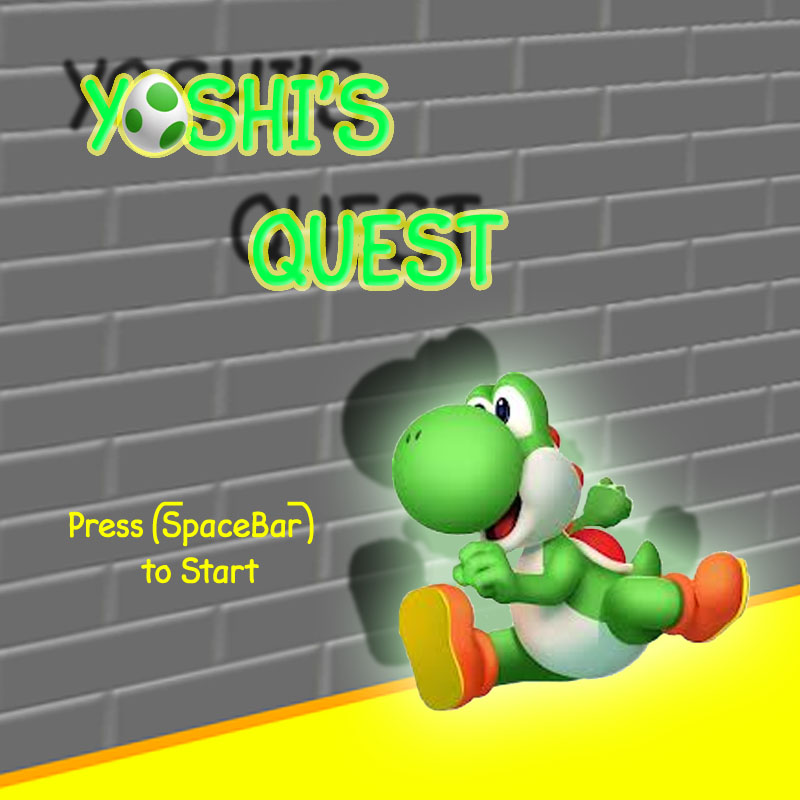
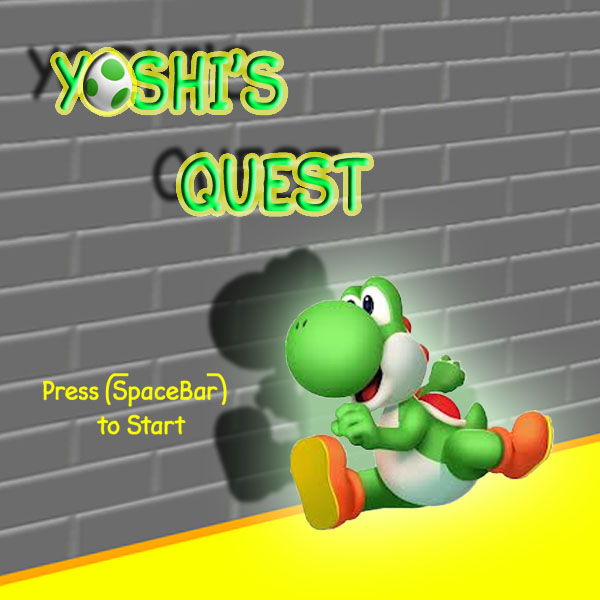
More pics. Updates on startwindow and mainwindow.

diff --git a/mainwindow.cpp b/mainwindow.cpp
@@ -1,27 +1,30 @@
 #include "mainwindow.h"
-/*#include "gamewindow.h"
-#include "startwindow.h"
-#include "pausewindow.h"*/
 
 Main::Main()
 {
 	time = new QTimer;
+	sScreen = new Start;
+	layout = new QVBoxLayout;
 	window = new QWidget;
-	window->setWindowTitle("12");
-	mb = menuBar();
+	window->setWindowTitle("Yoshi's Quest");
+	window->setFixedSize(WINDOW_MAX_X, WINDOW_MAX_Y);
 	createActions();
 	createMenus();
+	setCentralWidget(sScreen);
 }
 
 Main::~Main()
 {
-	
-	window->show();
+	delete sScreen;
+	delete window;
 }
 
 void Main::show()
 {
-	
+	menuBar()->show();
+	layout->addWidget(sScreen);
+	window->setLayout(layout);
+	window->show();
 }
 
 /*void Main::game()
@@ -41,14 +44,13 @@ void Main::start()
 
 void Main::createActions()
 {
-	exitAct = new QAction("Exit", this);
-	exitAct->setStatusTip(tr("Exit Game"));
+	exitAct = new QAction("&Exit", this);
+	exitAct->setStatusTip("&Exit Game");
 	connect(exitAct, SIGNAL(triggered()), qApp, SLOT(quit()));
 }
 
 void Main::createMenus()
 {
-	fileMenu = new QMenu("File", this);
-	mb->addMenu(fileMenu);
+	fileMenu = menuBar()->addMenu("&File");
 	fileMenu->addAction(exitAct);
 }

diff --git a/mainwindow.h b/mainwindow.h
@@ -10,10 +10,14 @@
 #include <QMenuBar>
 #include <QMenu>
 #include <QAction>
+#include <QLayout>
+//#include "gamewindow.h"
+#include "startwindow.h"
+//#include "pausewindow.h"
 
 
-#define WINDOW_MAX_X 800
-#define WINDOW_MAX_Y 800
+#define WINDOW_MAX_X 625
+#define WINDOW_MAX_Y 625
 
 class Main : public QMainWindow
 {
@@ -24,15 +28,14 @@ class Main : public QMainWindow
 		~Main();
 		void show();
 	private:
+		Start *sScreen;
 		QTimer *time;
-		QMenuBar *mb;
+		QVBoxLayout *layout;
 		void createActions();
 		void createMenus();
 		QMenu *fileMenu;
 		QAction *exitAct;
 		QWidget *window;
-	protected:
-		//void contextMenuEvent(QContextMenuEvent *event);
 	private slots:
 		
 /*	public slots:

diff --git a/startwindow.h b/startwindow.h
@@ -7,6 +7,8 @@
 #include <QGraphicsView>
 #include <QGraphicsItemAnimation>
 #include <QTimer>
+#include <QPixmap>
+#include <QGraphicsPixmapItem>
 
 class Start : public QGraphicsView
 {
@@ -18,11 +20,10 @@ class Start : public QGraphicsView
 		void show();
 	private:
 		QGraphicsScene *sScene;
+		QGraphicsPixmapItem *sMenu;
 		
 	public slots:
 		
-	protected:
-		void keyPressEvent(QKeyEvent *e);
 };
 
 #endif

diff --git a/startwindow.cpp b/startwindow.cpp
@@ -2,19 +2,23 @@
 
 Start::Start()
 {
-
+	sScene = new QGraphicsScene();
+	setScene(sScene);
+	sMenu = new QGraphicsPixmapItem(QPixmap("img/start.jpg"));
+	sScene->addItem(sMenu);
 }
 
 Start::~Start()
 {
-
+	delete sMenu;
+	delete sScene;
 }
 
-void Start::keyPressEvent(QKeyEvent *e)
+/*void Start::keyPressEvent(QKeyEvent *e)
 {
 	switch(e->key()) {
 		case Qt::Key_Space :
 			
 			break;
 	}
-}
+}*/
